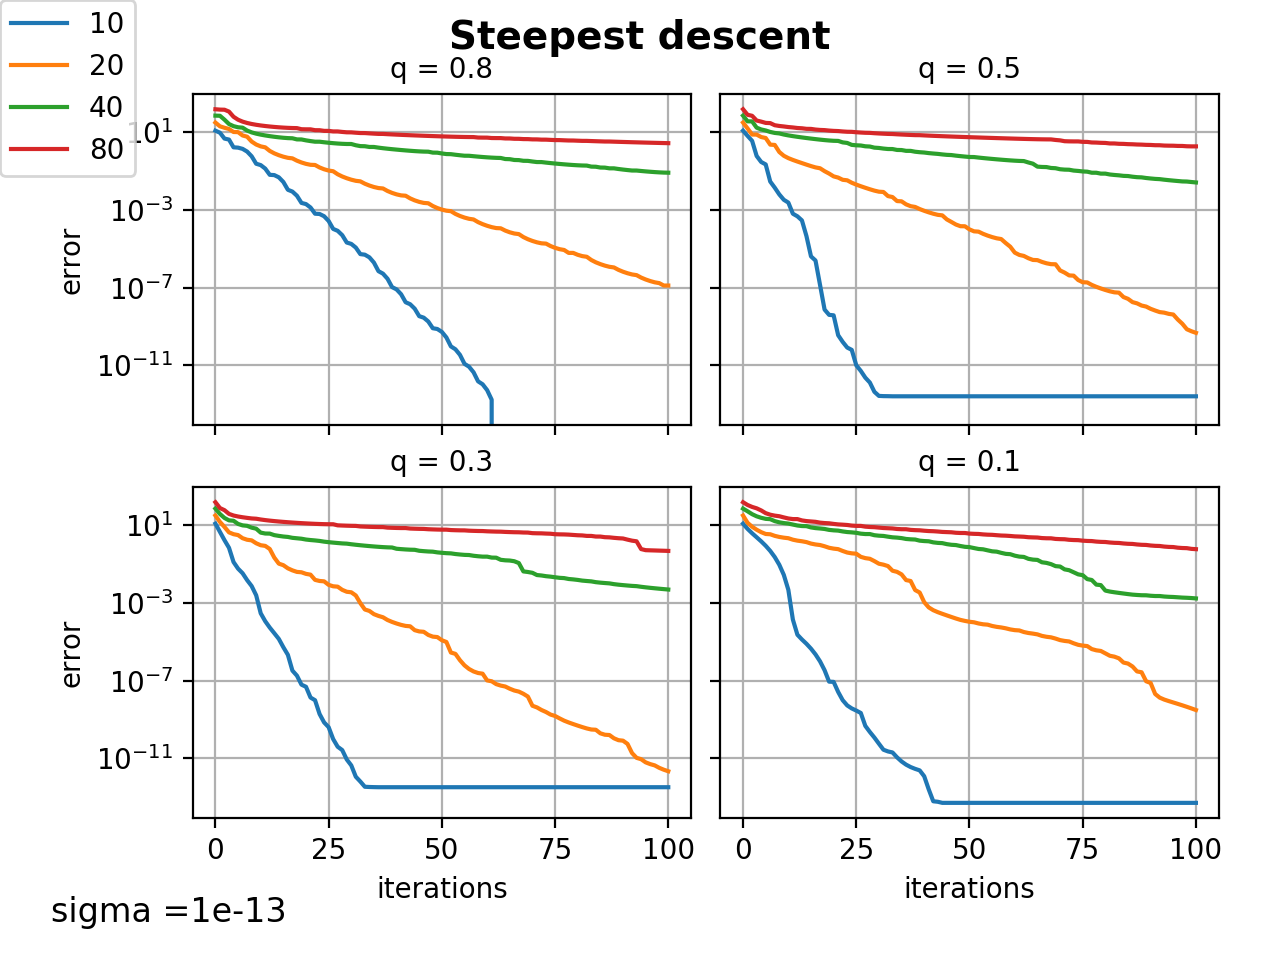
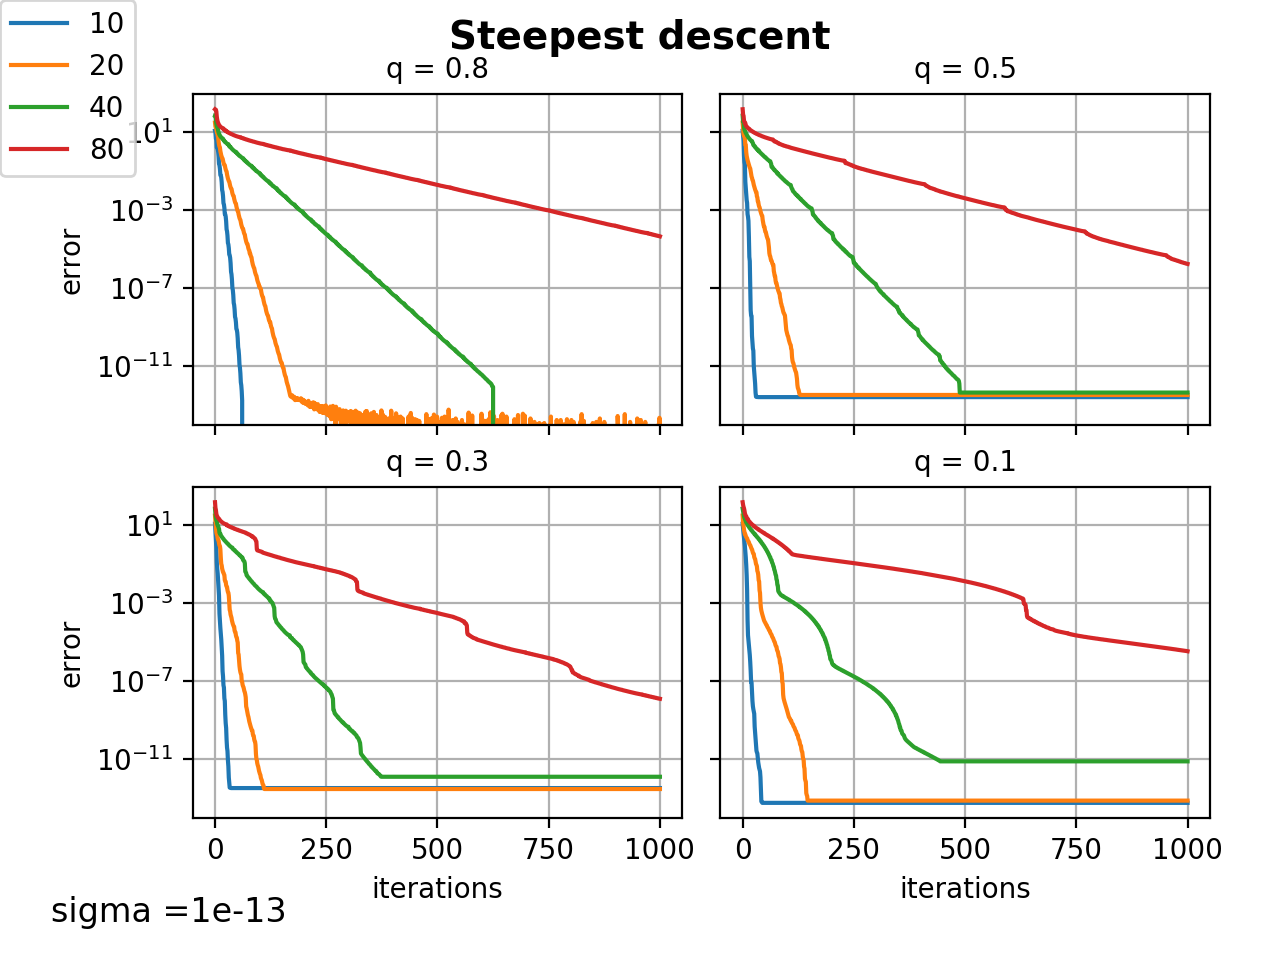
Ex11_4 with 1000 iterations

diff --git a/Ue11/Ex11_4new.py b/Ue11/Ex11_4new.py
@@ -36,7 +36,7 @@ for q,ax in zip([0.8,0.5,0.3,0.1],axes):
         A = 1/h**2 * (2*np.eye(n,n,dtype=float) - np.eye(n,n,k=1,dtype=float) - np.eye(n,n,k=-1,dtype=float))
         EWs, EVs = np.linalg.eig(A)
         x = np.ones(n)
-        maxSteps = 100
+        maxSteps = 1000
         #q = 0.8
         sigma = 1e-13
         lambdas = [R(x,A)]
